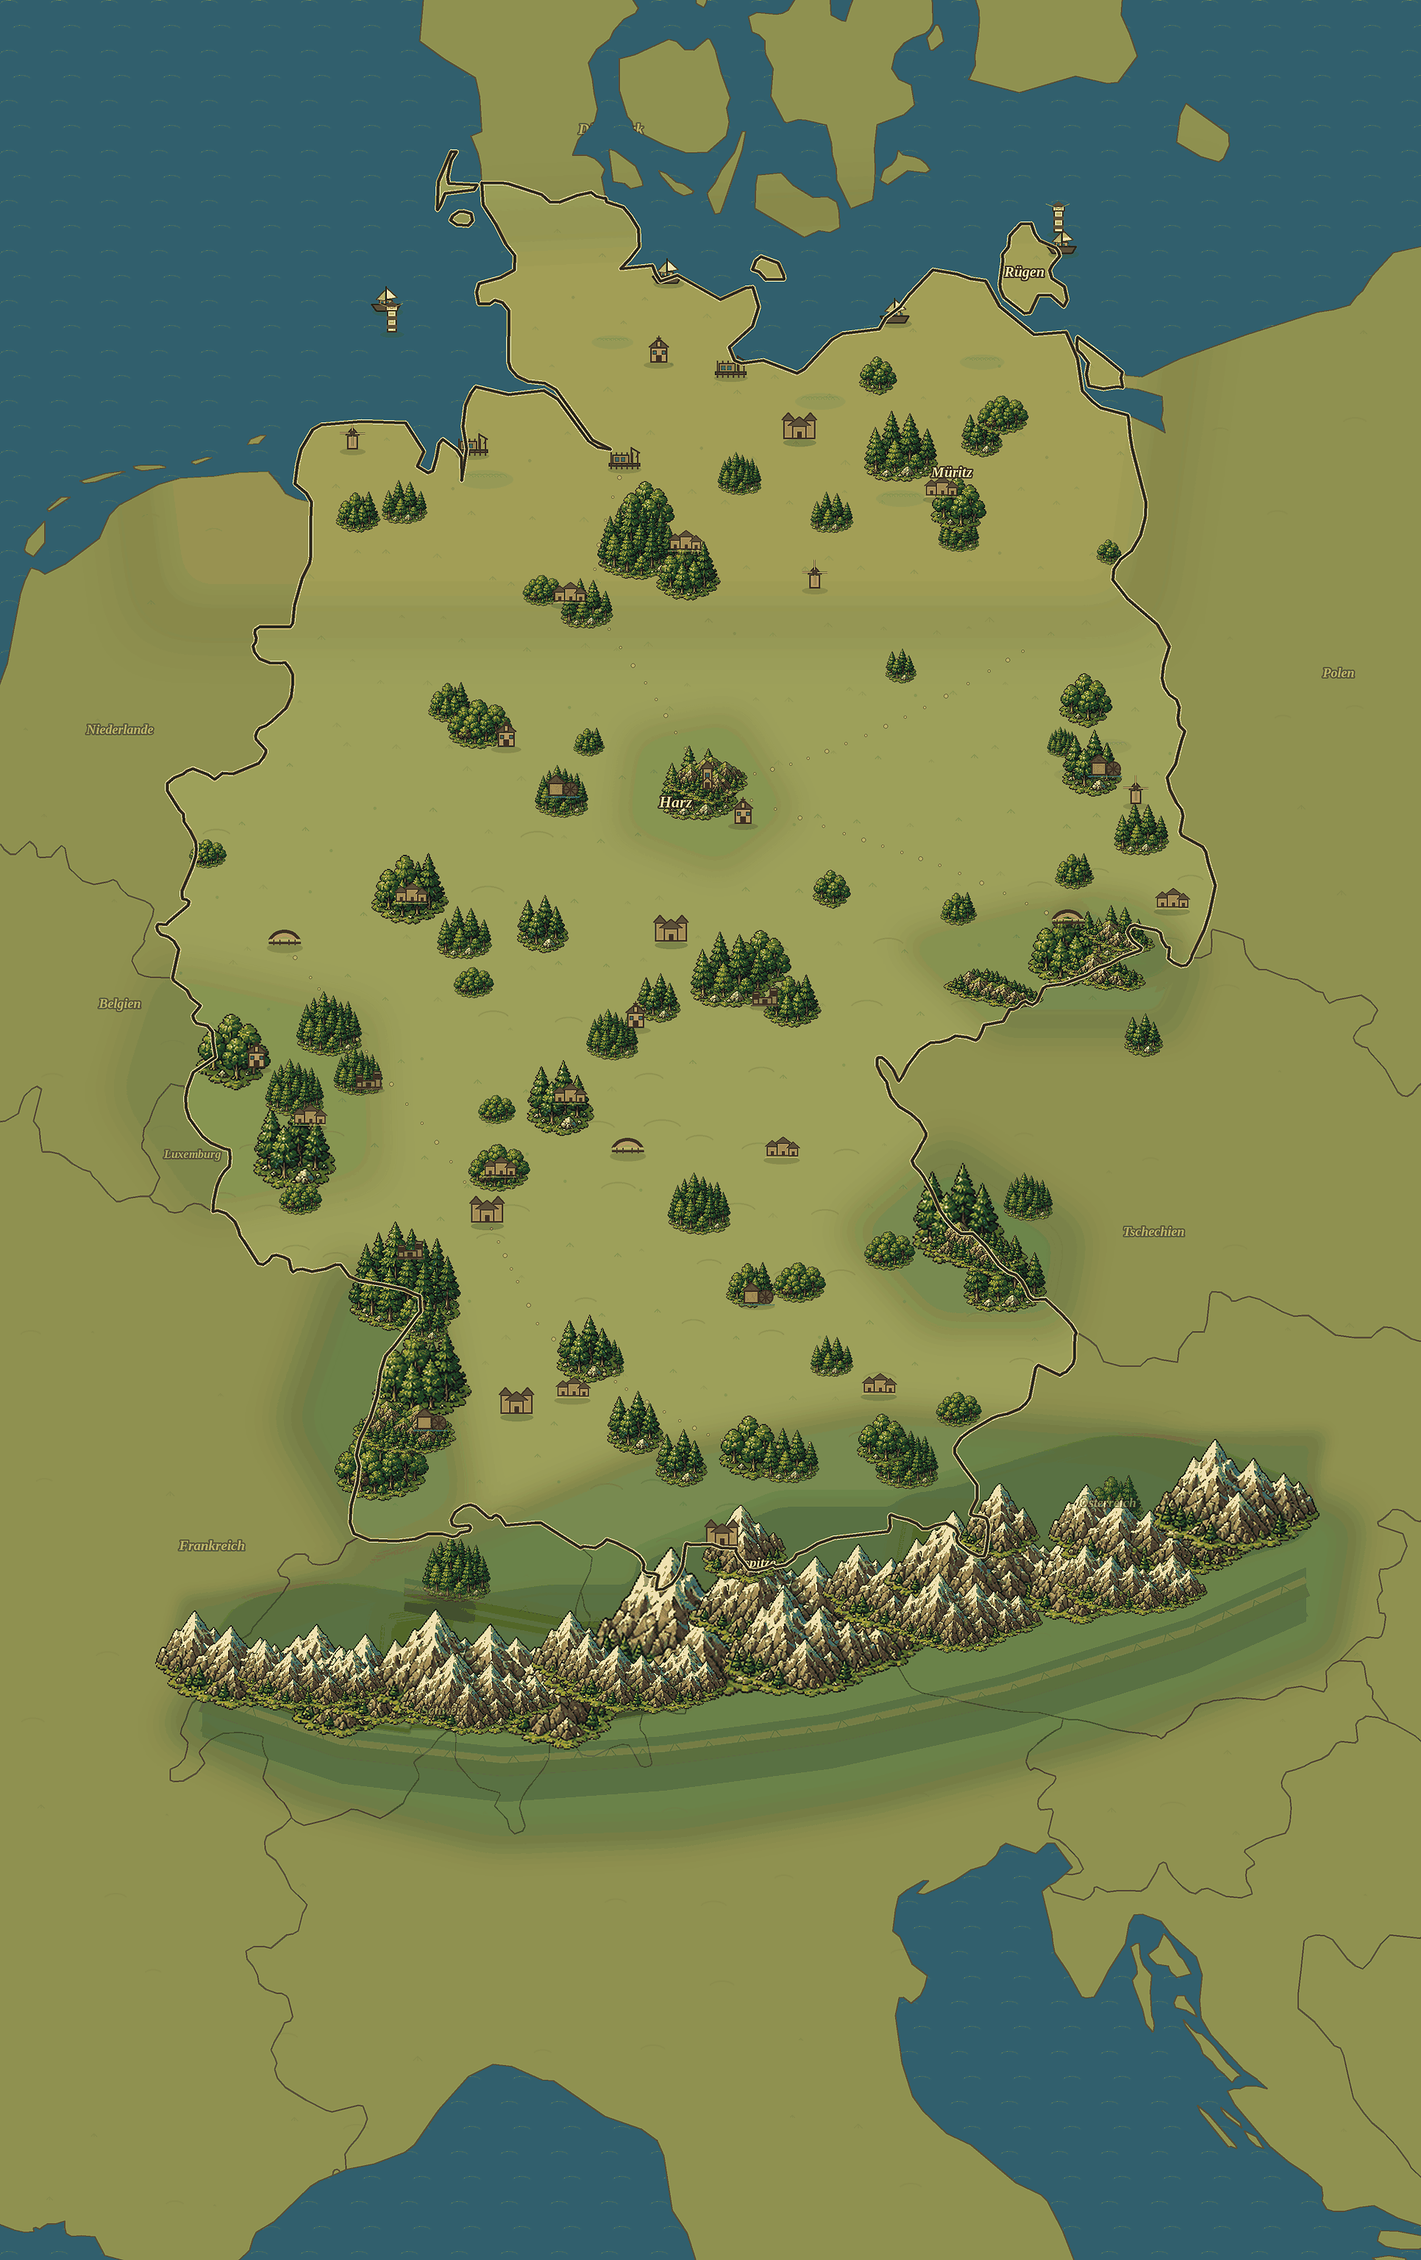
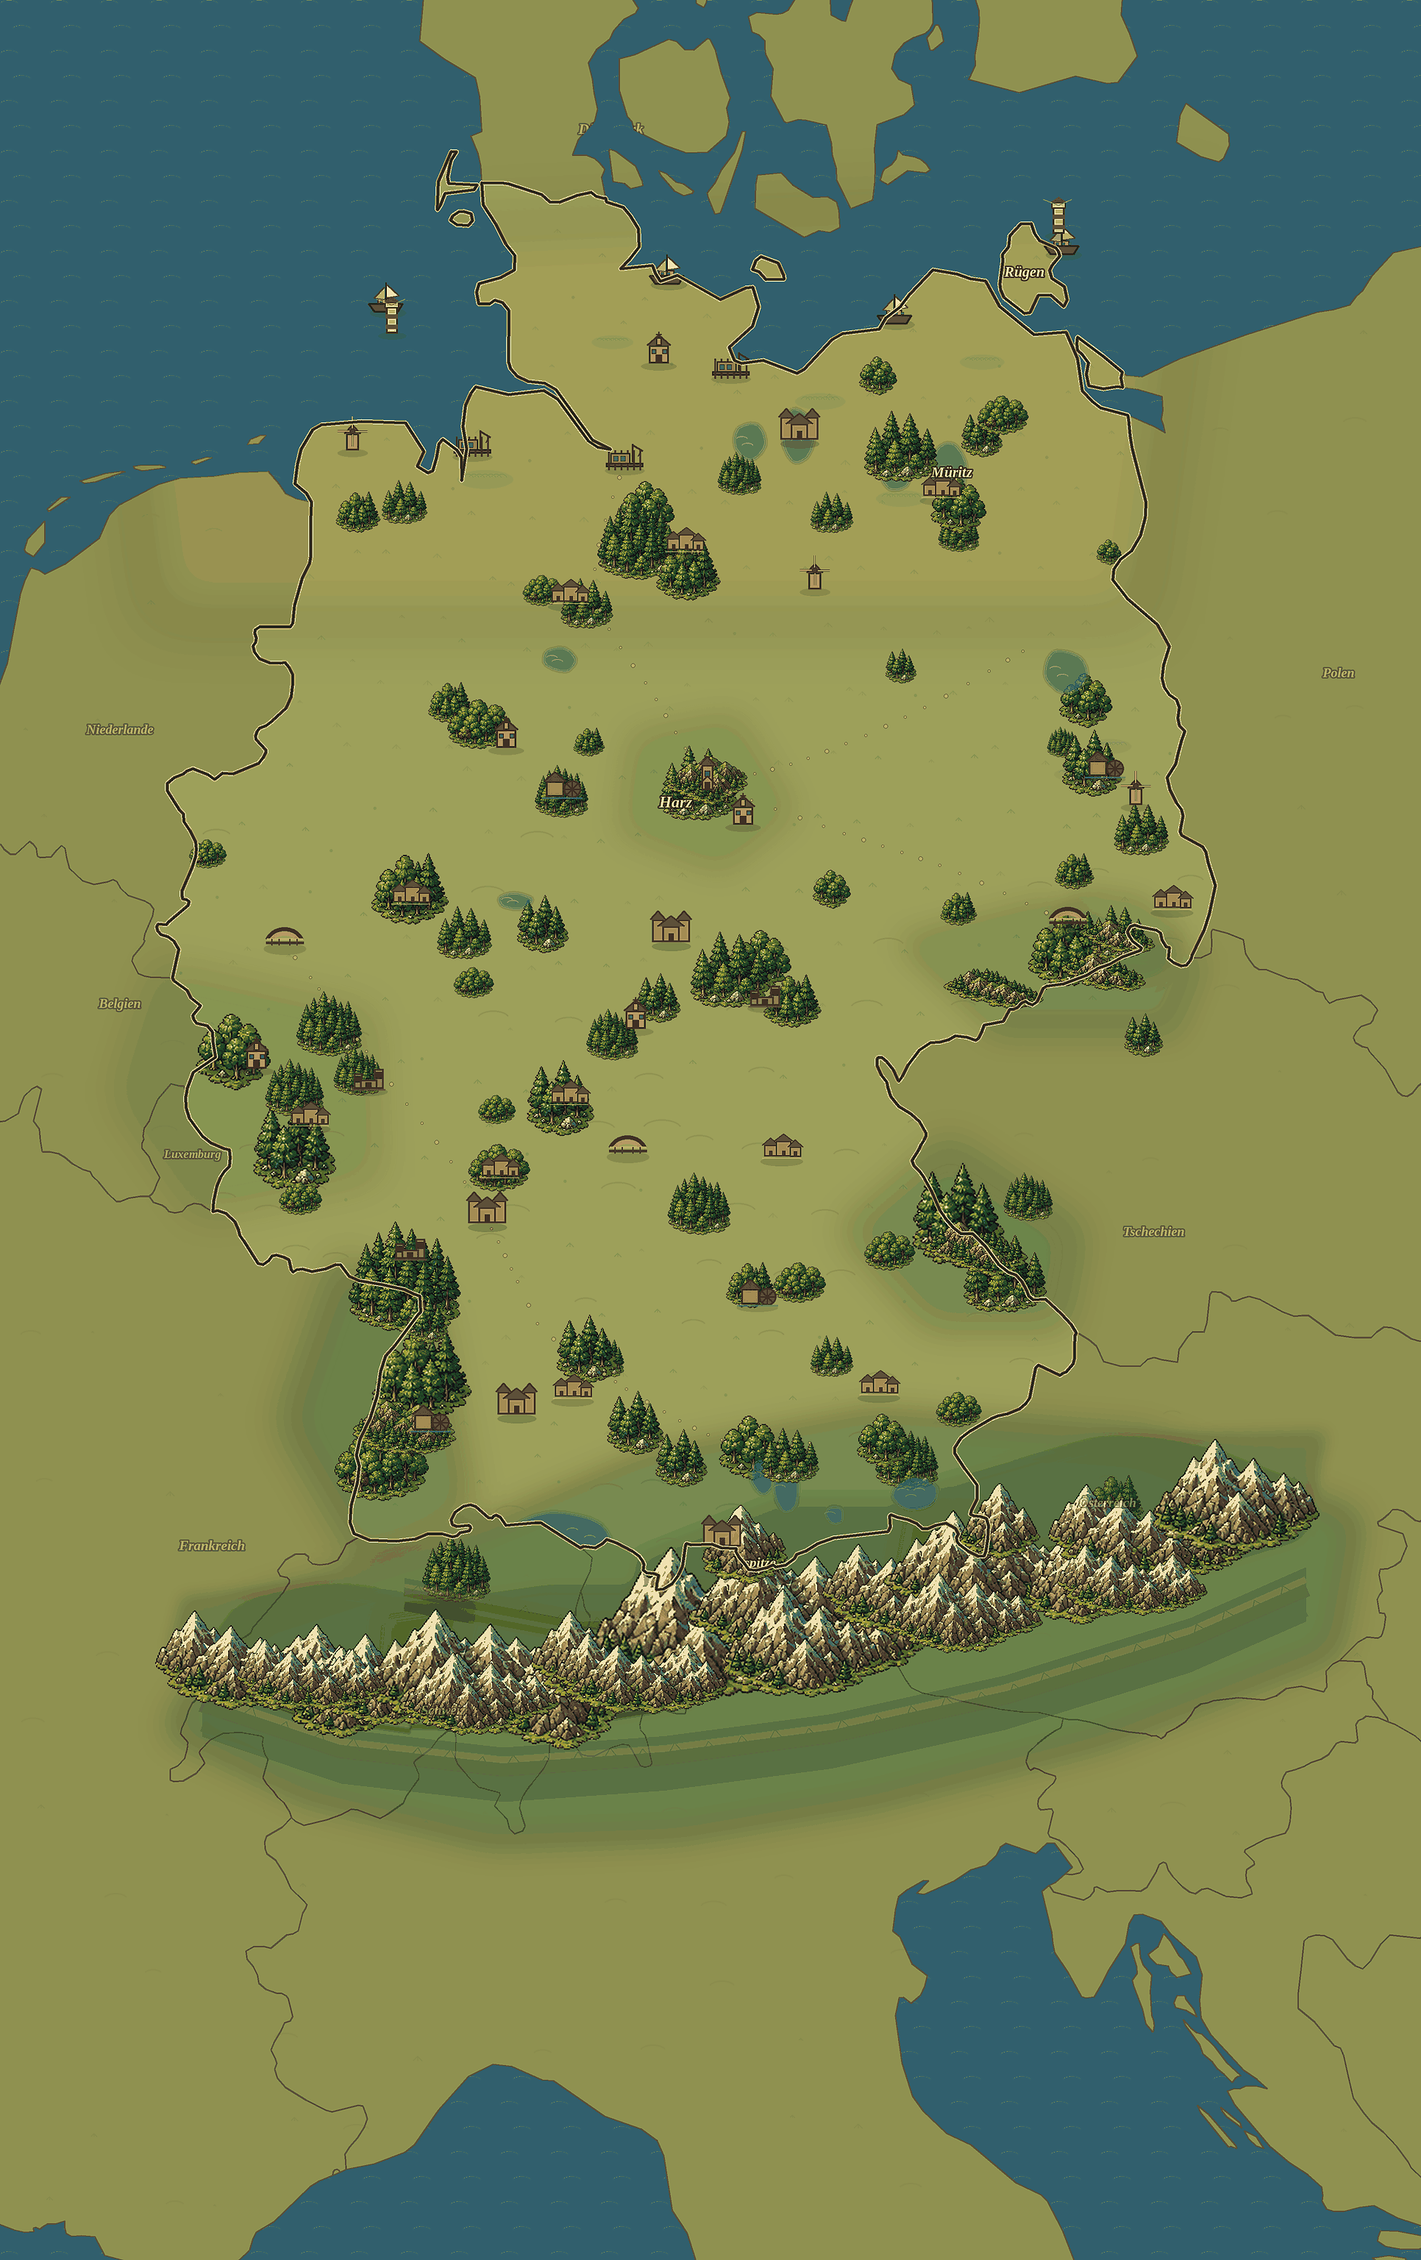
Improve atlas water and detail readability

diff --git a/map_pipeline/compose_map.py b/map_pipeline/compose_map.py
@@ -28,11 +28,11 @@ LAKE = "#2d7285"
 RIVER = "#3b8fa3"
 ROUTE = "#d8c17a"
 ROUTE_DARK = "#6e5832"
-NAMED_WATER_FILL = (47, 98, 111, 196)
-NAMED_WATER_SHALLOW = (71, 126, 129, 112)
-NAMED_WATER_SHORE = (66, 78, 47, 78)
-NAMED_WATER_OUTLINE = (39, 72, 72, 156)
-NAMED_WATER_HIGHLIGHT = (139, 184, 181, 104)
+NAMED_WATER_FILL = (47, 98, 111, 150)
+NAMED_WATER_SHALLOW = (71, 126, 129, 82)
+NAMED_WATER_SHORE = (66, 78, 47, 58)
+NAMED_WATER_OUTLINE = (39, 72, 72, 118)
+NAMED_WATER_HIGHLIGHT = (139, 184, 181, 76)
 FOREST_SPRITE_CACHE = {}
 GLYPH_CACHE = {}
 FONT_CACHE = {}
@@ -472,7 +472,7 @@ ATLAS_DETAIL_KIND_SCALE = {
     "watermill": 1.55,
     "windmill": 1.55,
 }
-MIN_ATLAS_DETAIL_WIDTH = 66
+MIN_ATLAS_DETAIL_WIDTH = 78
 
 
 def audit_geography_layers():
@@ -658,13 +658,23 @@ def _draw_waterways(canvas, proj, germany_mask):
     ]
     for river in rivers:
         pts = [_project_point(proj, lon, lat) for lon, lat in river]
-        draw.line(pts, fill=(42, 81, 85, 190), width=7 * RENDER_SCALE, joint="curve")
-        draw.line(pts, fill=(76, 139, 142, 230), width=4 * RENDER_SCALE, joint="curve")
-        draw.line(pts, fill=(130, 184, 179, 170), width=1 * RENDER_SCALE, joint="curve")
+        draw.line(pts, fill=(38, 68, 70, 138), width=8 * RENDER_SCALE, joint="curve")
+        draw.line(pts, fill=(53, 116, 126, 204), width=4 * RENDER_SCALE, joint="curve")
+        draw.line(pts, fill=(135, 184, 176, 128), width=max(1, RENDER_SCALE), joint="curve")
 
     for water_body in NAMED_WATER_BODIES:
         _draw_named_water_body(draw, proj, water_body)
 
+    canvas.alpha_composite(layer)
+
+
+def _draw_named_water_bodies(canvas, proj, germany_mask):
+    layer = Image.new("RGBA", canvas.size, (0, 0, 0, 0))
+    draw = ImageDraw.Draw(layer)
+    for water_body in NAMED_WATER_BODIES:
+        _draw_named_water_body(draw, proj, water_body)
+    alpha = Image.composite(layer.getchannel("A"), Image.new("L", canvas.size, 0), germany_mask)
+    layer.putalpha(alpha)
     canvas.alpha_composite(layer)
 
 
@@ -1384,6 +1394,7 @@ def main():
     _draw_neighbor_ground_texture(canvas, proj, neighbor_mask)
     _draw_ground_texture(canvas, proj, germany_mask, germany)
     _draw_lakes(canvas, proj, germany_mask)
+    _draw_named_water_bodies(canvas, proj, germany_mask)
     _draw_atlas_forest_masses(canvas, proj, land_mask)
     _draw_atlas_routes(canvas, proj, germany_mask)
     _draw_atlas_details(canvas, proj)

diff --git a/tests/test_map_panel_contract.py b/tests/test_map_panel_contract.py
@@ -369,7 +369,7 @@ class MapPanelContractTest(unittest.TestCase):
             "if BAKED_TOWN_DETAILS_ENABLED:",
             "for lon, lat, size in BAKED_TOWN_DETAILS:",
             "ATLAS_DETAILS = [",
-            "MIN_ATLAS_DETAIL_WIDTH = 66",
+            "MIN_ATLAS_DETAIL_WIDTH = 78",
             "def audit_geography_layers():",
             "relief_polygons = {region[\"id\"]: Polygon(region[\"points\"])",
             "northern_lowlands must not define",
@@ -405,13 +405,15 @@ class MapPanelContractTest(unittest.TestCase):
             "def _draw_atlas_details(canvas, proj):",
             "for detail in ATLAS_DETAILS:",
             "target_width = max(MIN_ATLAS_DETAIL_WIDTH, detail[\"width\"] * kind_scale)",
+            "def _draw_named_water_bodies(canvas, proj, germany_mask):",
+            "_draw_named_water_bodies(canvas, proj, germany_mask)",
             "_draw_atlas_details(canvas, proj)",
             "def _load_glyph(name):",
             "def _draw_glyph_center(canvas, proj, glyph_name, lon, lat, target_width):",
             "\"alps_range_1\"",
             "NAMED_WATER_BODIES = [",
-            "NAMED_WATER_FILL = (47, 98, 111, 196)",
-            "NAMED_WATER_SHORE = (66, 78, 47, 78)",
+            "NAMED_WATER_FILL = (47, 98, 111, 150)",
+            "NAMED_WATER_SHORE = (66, 78, 47, 58)",
             '"id": "mueritz"',
             '"id": "bodensee"',
             '"id": "chiemsee"',

diff --git a/docs/active-map-backlog.md b/docs/active-map-backlog.md
@@ -38,6 +38,7 @@
 - [x] Задокументировать verification protocol: команды, скриншоты, gzip/payload checks, screenshot checklist и критерии `3/10`, `6/10`, `8/10`, `10/10`.
 - [x] Заменить generic lake glyph placement для ключевых озёр на named coordinate outlines: Bodensee, Müritz, Chiemsee, Schweriner See, Plauer See, Schaalsee, Steinhuder Meer, Edersee, Ammersee, Starnberger See, Tegernsee, Berlin lakes.
 - [x] Настроить visual hierarchy для named lakes: точные озёра приглушены, получили shoreline underpaint и softer highlights, поэтому меньше похожи на overlay markers и лучше сидят в atlas map.
+- [ ] Доработать форму named lakes: текущий слой полезен для ориентира, но часть озёр на mobile всё ещё выглядит как маленькие round blobs; нужно сделать силуэты более узнаваемыми и менее похожими на маркеры.
 - [ ] Проверить и откалибровать координаты city landmarks относительно реальной географии: Росток должен быть у моря, Дрезден не должен визуально уезжать в Чехию, города должны совпадать с реальной картой настолько, насколько позволяет художественная подложка.
 - [x] Исправить pan sensitivity: drag пальцем и мышью теперь использует viewport-local `event.relative` и `PAN_DRAG_SCALE := 1.0`, чтобы движение было 1:1 в координатах карты, без `screen_relative` acceleration.
 - [ ] Разобраться с тем, почему пользователь может видеть старую версию с точками вместо city landmark icons: web rebuild, Godot import, browser cache, service worker/PWA/cache busting.
@@ -48,7 +49,7 @@
 - [x] Усилить visual hierarchy интерактивных объектов: transport markers теперь крупнее city landmarks на default/mobile и имеют больший cap (`60..96`) против более сдержанных city landmarks (`42..76`).
 - [x] Добавить outline-only runtime sprites для транспортных и city landmark иконок: объекты должны читаться поверх детальной карты без кругов, плашек и фоновых подложек.
 - [x] Убрать jitter у runtime объектов при pan/zoom: транспортные маркеры, city landmarks и размеры иконок snap-аются к целым пикселям по тому же принципу, что и подписи.
-- [x] Увеличить мелкие atlas details: домики/часовни/мельницы/руины/водяные мельницы имеют `MIN_ATLAS_DETAIL_WIDTH = 66`, чтобы не превращаться в шум.
+- [x] Увеличить мелкие atlas details: домики/часовни/мельницы/руины/водяные мельницы имеют `MIN_ATLAS_DETAIL_WIDTH = 78`, чтобы не превращаться в шум.
 - [x] Добавить первый explicit forest mass layer: `ATLAS_FOREST_MASSES` покрывает Lüneburger Heide, Mecklenburg lake forests, Spreewald/Lausitz, Teutoburg/Weser, Sauerland/Rothaar, Eifel, Spessart/Odenwald, Thuringian Forest, Franconian/Swabian uplands и Upper Bavaria foothills.
 - [x] Убрать странные декоративные полоски из текущего рендера: route overlay и слишком прямые procedural waterways больше не вызываются, field hatch/field patch заменены на более спокойные tufts/hill marks.
 - [x] Вернуть journey-map структуру без технических полос: добавлен controlled `ATLAS_ROUTE_SEGMENTS` layer с короткими dotted atlas trails, без continuous `draw.line` и без blue procedural waterways.
@@ -73,5 +74,5 @@
 ## Current Known State
 
 - Карта на `http://127.0.0.1:9000/` пересобрана из `main`.
-- Последний map commit на момент обновления backlog: pending geography audit guardrails.
-- Текущая карта технически рабочая и архитектурно движется в glyph-based direction. Честная оценка после screenshots: около `6.5/10` по плотности и читаемости, но нельзя оценивать ее как `8/10`: некоторые forest+village clusters тяжеловаты, marker composition в городах всё еще плотная, нужна более сильная художественная плотность, audit рельефа/озер/координат, finer high-quality mountain glyphs and broader Europe explicit layers.
+- Последний map commit на момент обновления backlog: pending named water/detail readability pass.
+- Текущая карта технически рабочая и архитектурно движется в glyph-based direction. Честная оценка после screenshots: около `6.5/10` по плотности и читаемости, но нельзя оценивать ее как `8/10`: некоторые water blobs и forest+village clusters тяжеловаты, marker composition в городах всё еще плотная, нужна более сильная художественная плотность, visual audit рельефа/озер/координат, finer high-quality mountain glyphs and broader Europe explicit layers.

diff --git a/docs/map-orchestrator-progress.md b/docs/map-orchestrator-progress.md
@@ -699,3 +699,30 @@ Evidence:
 - `uv run python -m unittest tests.test_map_geography_audit tests.test_map_panel_contract tests.test_export_payload_contract tests.test_android_export_contract`: 19 tests OK, including the real geography audit.
 
 Self-audit: still about `6.5/10`. This does not improve the pixels directly, but it removes a major process risk: the next terrain/lake/Europe edits now have automated guardrails against putting mountains/water/details in impossible places. It supports future `8/10+`, but the visible art pass is still required.
+
+## Iteration 2026-05-31 20:53
+
+Implemented:
+
+- Raised `MIN_ATLAS_DETAIL_WIDTH` from `66` to `78`, so small atlas detail glyphs read more like intentional places and less like pixel dust at mobile zoom.
+- Split named water rendering into `_draw_named_water_bodies()` and kept the straight procedural river/blue-line layer disabled after screenshot review.
+- Softened named water alpha/shore/highlight values so lakes sit more naturally in the atlas underlay and do not compete with clickable transport/city markers.
+- Updated contracts for the new water/detail readability pass.
+
+Evidence:
+
+- `assets/map/germany_styled.png`: `1932x3072`, about `2.37 MB`.
+- First attempted river pass was rejected during self-review because it produced long straight blue strips; the final exported pass does not call `_draw_waterways()` from `main()`.
+- `/tmp/cable-world-web-map/mobile-390x844-initial.png` shows larger atlas details, no circular city-marker backgrounds and runtime city labels still on the default font.
+- `/tmp/cable-world-web-map/desktop-1280x800-initial.png` shows the new underlay in the exported web build.
+- `curl -I --compressed http://127.0.0.1:9000/index.pck`: `Content-Encoding: gzip`, `Content-Length: 6281373`, `Cache-Control: no-store`.
+
+Checks:
+
+- `python3 -m unittest tests.test_map_panel_contract tests.test_export_payload_contract tests.test_android_export_contract tests.test_map_geography_audit`: 19 tests OK, 1 skipped under plain Python.
+- `uv run python -m unittest tests.test_map_geography_audit tests.test_map_panel_contract tests.test_export_payload_contract tests.test_android_export_contract`: 19 tests OK.
+- `godot --headless --path . --import --quit`: import completed. Existing nested worktree warning and adb daemon warning remain.
+- Web export rebuilt, gzip files regenerated and `scripts/serve-web.sh --no-export` restarted on `http://127.0.0.1:9000/`.
+- `PLAYWRIGHT_PACKAGE=/tmp/cable-playwright/node_modules/playwright URL=http://127.0.0.1:9000/ node scripts/verify-web-map.mjs`: screenshots regenerated.
+
+Self-audit: still about `6.5/10`, not `8/10`. The detail readability is better and the failed river-strip direction was avoided, but several named lakes still look too round/blobby on mobile. The next visible pass should improve lake silhouettes and continue terrain/mountain art calibration rather than claiming completion.
